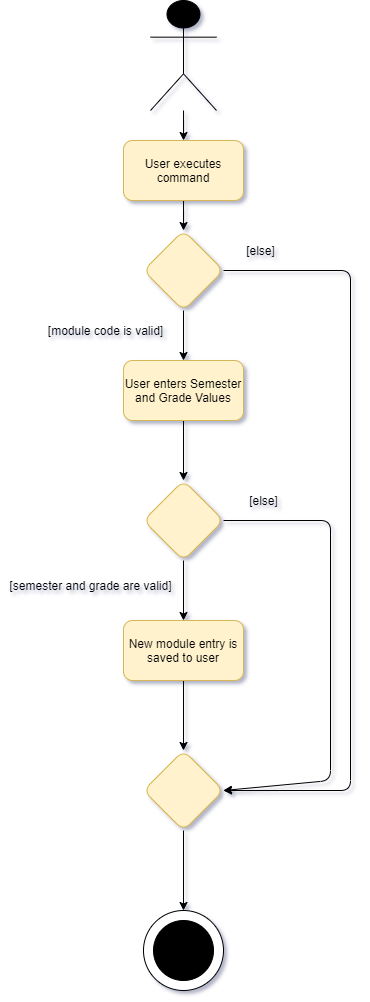
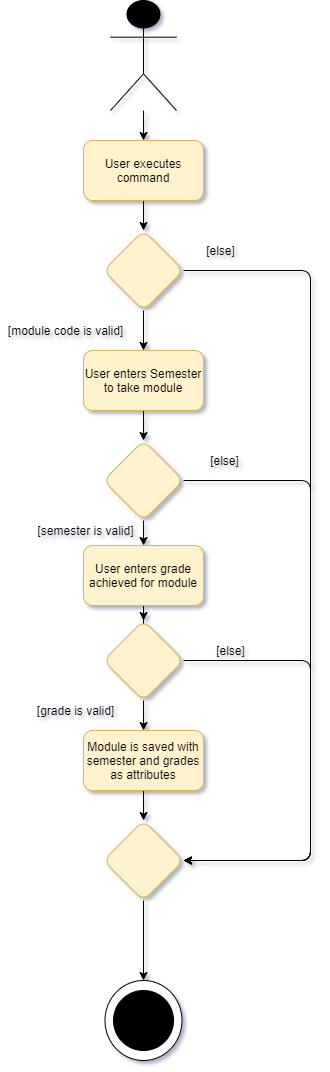
Update DG for AddModuleCommand

Changed region(s): [[0.0303, 0.0, 0.9697, 1.0], [0.6667, 0.495, 0.7576, 0.5259]]

diff --git a/docs/DeveloperGuide.md b/docs/DeveloperGuide.md
@@ -204,7 +204,8 @@ and `String`. Below is a table of what each parameter corresponds to in the stat
 __Step 2__ : `execute()` is called from the instance of `AddModuleCommand`. It can throw `AcademicException` 
 or `IOException`. `FileHandler` and `Logger` classes from the _java API_ are instantiated to handle logging for the remainder of the `execute()` method. 
 
-__Step 3__ : `in` then reads in the line of input, which is the user's input for the desired semester for the `moduleCode`. This is then validated against `allModules`, while accounting for `isRetake` variable. 
+__Step 3__ : `in` then reads in the next line of input, which is the user's input for the desired semester for the `moduleCode`. This is then validated against `allModules`, while accounting for `isRetake` variable. `isRetake` is a flag varaible which indicates that
+the module newly entered by the user is a module that is going to be retaken.
 
 __Step 4__ : The next line of input is read from `in`, which is the user's input for grade value, which is also validated by `ModuleValidator`.
 
@@ -221,7 +222,7 @@ __Step 6__ :  `AddUtils` is called upon again to add the module's data to the us
     <img src="./images/DeveloperGuide/addModuleCommand_finalState.png" alt="Final state diagram for AddModuleCommand"/>
 </div>
 
-__Step 7__ : `FileHandler`, `Logger`, `PartialModule`, `ModuleValidator`, `AddUtils` and `AddModuleCommand` are terminated.
+__Step 7__ : `FileHandler`, `Logger`, `ModuleValidator`, `AddUtils` and `AddModuleCommand` are terminated. `PartialModule` is not terminated as it is now referenced by `userModuleList` and `userModuleMap` in `Person`.
 
 The following sequence diagram shows how the `AddModuleCommand` works:
 
